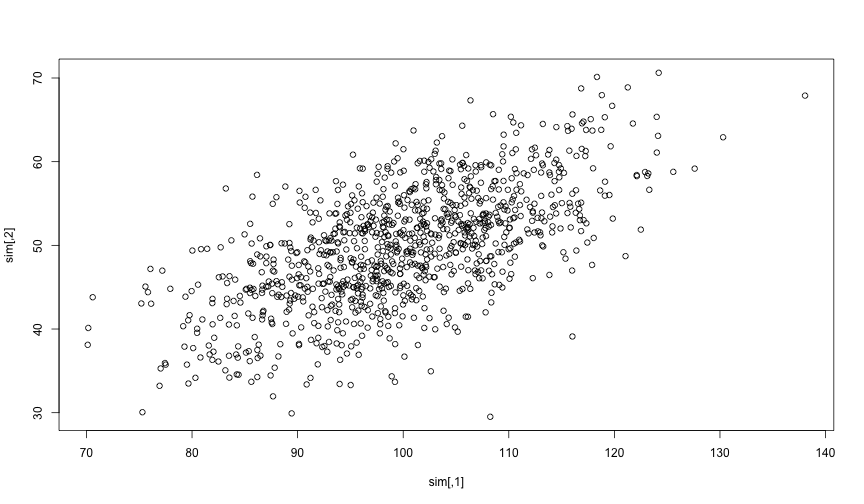
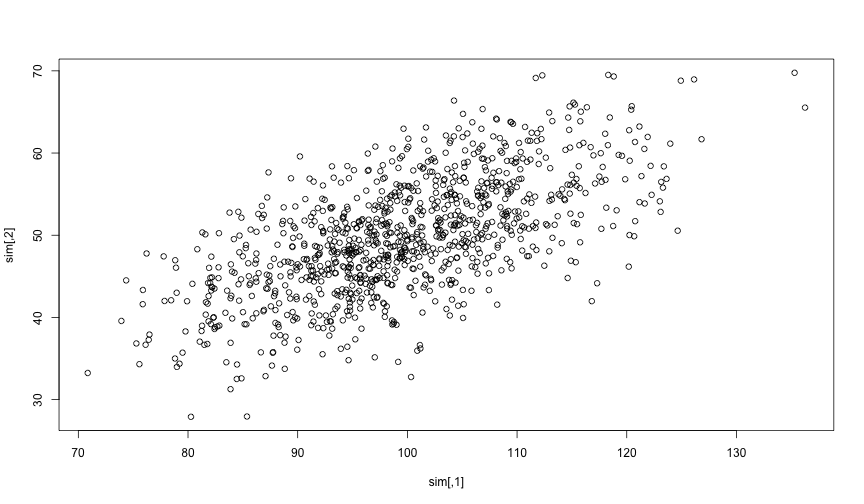
Fixed footer link

diff --git a/weeks/w1/w1p2.html b/weeks/w1/w1p2.html
@@ -8,7 +8,7 @@
     <link href="libs/remark-css-0.0.1/uo.css" rel="stylesheet" />
     <link href="libs/remark-css-0.0.1/uo-fonts.css" rel="stylesheet" />
     <link href="libs/remark-css-0.0.1/hygge.css" rel="stylesheet" />
-    <link rel="stylesheet" href="custom.css" type="text/css" />
+    <link rel="stylesheet" href="custom2.css" type="text/css" />
   </head>
   <body>
     <textarea id="source">
@@ -143,12 +143,12 @@ head(sim) # print!
 
 ```
 ##           [,1]     [,2]
-## [1,]  89.43490 29.91873
-## [2,]  95.24295 60.83695
-## [3,] 117.28574 61.27665
-## [4,]  90.48697 43.78262
-## [5,]  98.06337 55.80735
-## [6,] 104.54248 52.70311
+## [1,] 118.03381 62.34258
+## [2,]  92.29098 52.95812
+## [3,] 113.43027 51.26754
+## [4,]  93.14491 38.62977
+## [5,]  83.56877 43.25521
+## [6,]  96.24175 47.86014
 ```
 
 ---
@@ -167,8 +167,8 @@ cor(sim)
 
 ```
 ##           [,1]      [,2]
-## [1,] 1.0000000 0.6271091
-## [2,] 0.6271091 1.0000000
+## [1,] 1.0000000 0.6373581
+## [2,] 0.6373581 1.0000000
 ```
 &lt;br&gt;
 
